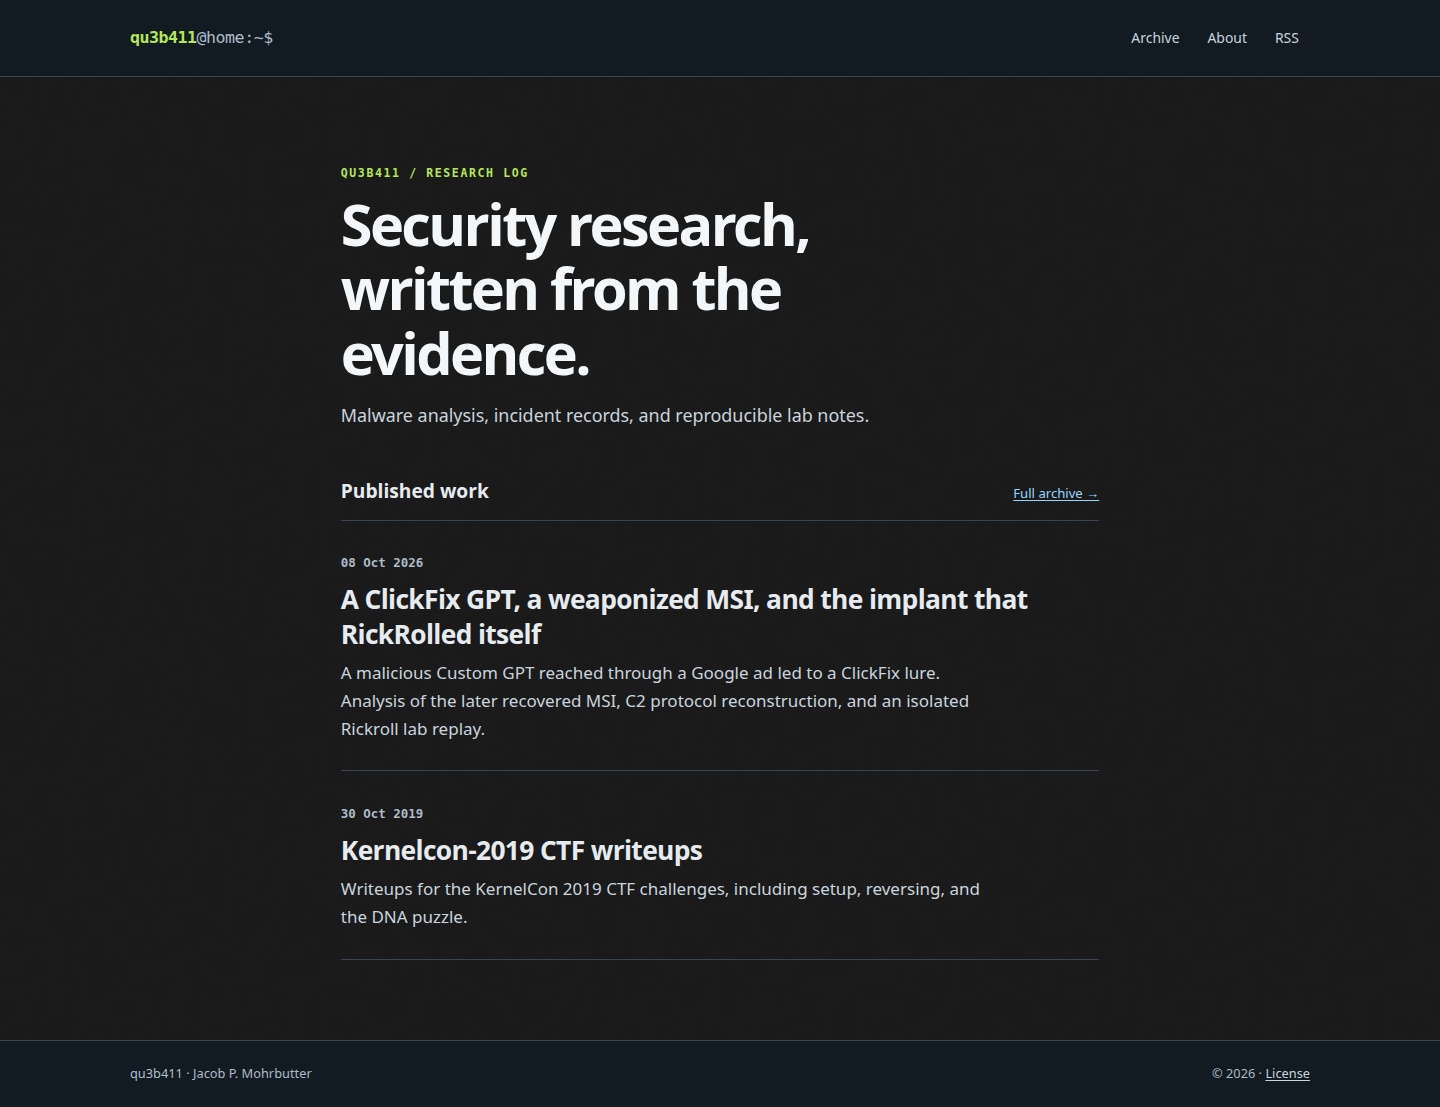
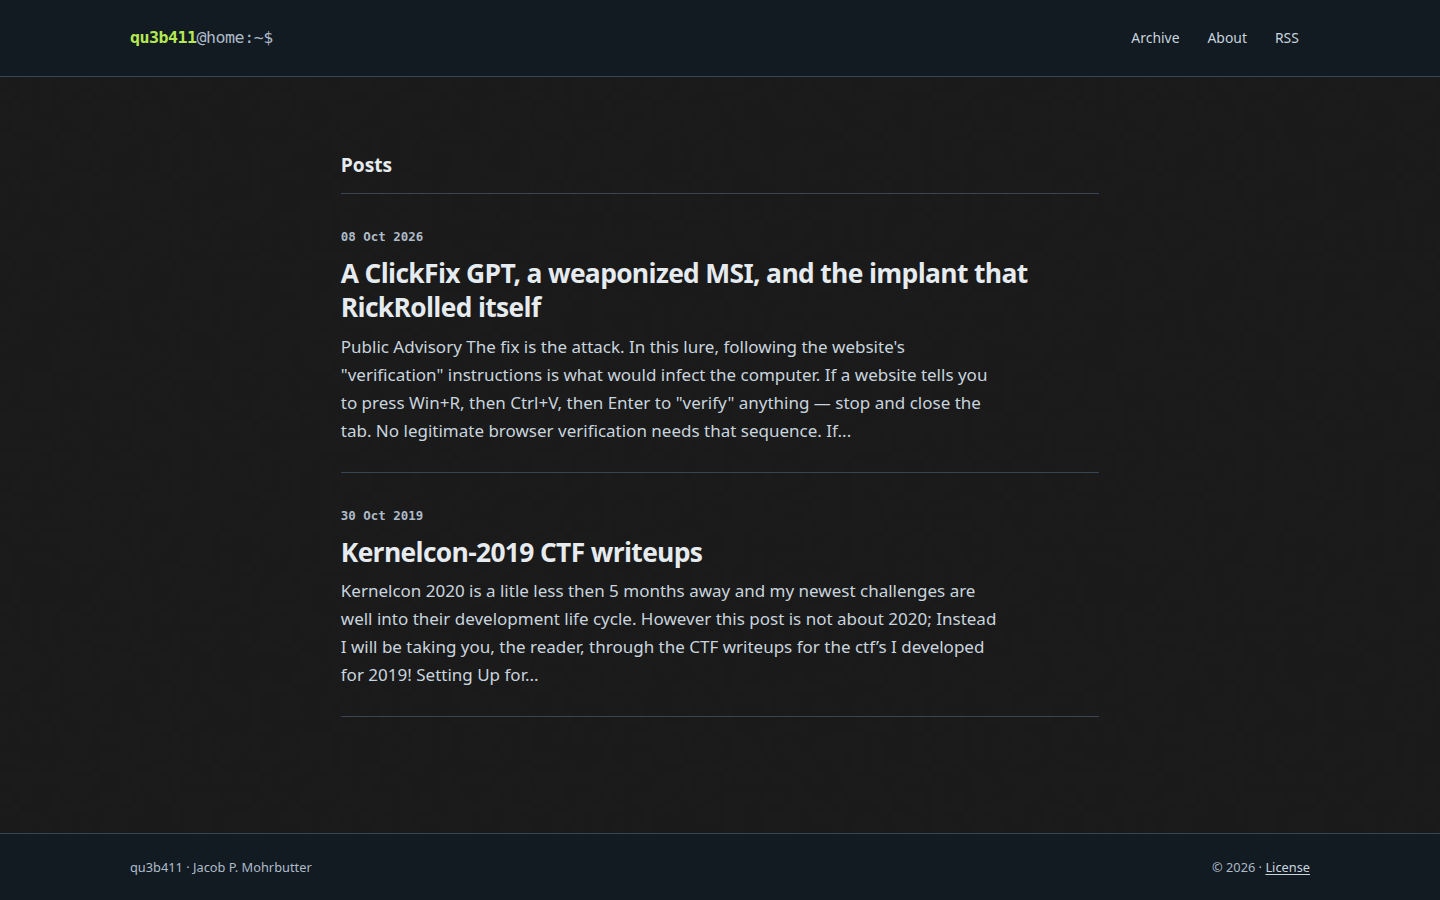
Keep homepage a simple post list

diff --git a/_sass/base.scss b/_sass/base.scss
@@ -106,30 +106,12 @@ a:focus-visible, summary:focus-visible {
   letter-spacing: .14em;
   text-transform: uppercase;
 }
-.home-intro { max-width: 70ch; padding: 1rem 0 2.8rem; }
-.home-intro h1 {
-  max-width: 18ch;
-  margin: 0 0 1rem;
-  color: #f4f7fa;
-  font: 750 clamp(2.2rem, 5vw, 3.6rem)/1.12 system-ui, sans-serif;
-  letter-spacing: -.045em;
-}
-.home-intro > p:last-child { margin: 0; color: var(--soft); font-size: 1.12rem; }
-.section-heading {
-  display: flex;
-  align-items: baseline;
-  justify-content: space-between;
-  gap: 1rem;
-  padding-bottom: .8rem;
-  border-bottom: 1px solid var(--line);
-}
-.section-heading h2 { margin: 0; font-size: 1.2rem; }
-.section-heading a { white-space: nowrap; font-size: .82rem; }
+.post-list__heading { margin: 0; padding-bottom: .8rem; border-bottom: 1px solid var(--line); font-size: 1.2rem; }
 .post-card { padding: 1.65rem 0 1.7rem; border-bottom: 1px solid var(--line); }
 .post-card time, .post-date { color: var(--muted); font: 600 .78rem/1.5 ui-monospace, SFMono-Regular, Consolas, monospace; }
-.post-card h3 { margin: .45rem 0 .5rem; font-size: clamp(1.3rem, 2.4vw, 1.65rem); line-height: 1.3; letter-spacing: -.025em; }
-.post-card h3 a { color: var(--text); text-decoration: none; }
-.post-card h3 a:hover { color: var(--link); text-decoration: underline; }
+.post-card h2 { margin: .45rem 0 .5rem; font-size: clamp(1.3rem, 2.4vw, 1.65rem); line-height: 1.3; letter-spacing: -.025em; }
+.post-card h2 a { color: var(--text); text-decoration: none; }
+.post-card h2 a:hover { color: var(--link); text-decoration: underline; }
 .post-card p { max-width: 68ch; margin: 0; color: var(--soft); }
 .pagination { display: flex; justify-content: space-between; gap: 1rem; padding-top: 2rem; color: var(--muted); font-size: .85rem; }
 
@@ -223,7 +205,6 @@ a:focus-visible, summary:focus-visible {
   .site-footer__inner { width: calc(100% - 2rem); flex-direction: column; gap: .3rem; }
   .prose { font-size: 1rem; }
   .prose pre { font-size: .76rem; }
-  .home-intro { padding-bottom: 2rem; }
 }
 
 /* Shared article shell and section index for all published posts. */

diff --git a/index.html b/index.html
@@ -1,23 +1,15 @@
 ---
 layout: default
-title: "Security research and malware analysis"
-description: "Independent security research, malware analysis, incident records, and reproducible lab notes by qu3b411."
+title: "Research and CTF writeups"
+description: "Security research, malware analysis, and CTF writeups by qu3b411."
 ---
-<section class="home-intro" aria-labelledby="home-title">
-  <p class="eyebrow">qu3b411 / research log</p>
-  <h1 id="home-title">Security research, written from the evidence.</h1>
-  <p>Malware analysis, incident records, and reproducible lab notes.</p>
-</section>
-<section class="post-list" aria-labelledby="latest-heading">
-  <div class="section-heading">
-    <h2 id="latest-heading">Published work</h2>
-    <a href="{{ '/archive/' | relative_url }}">Full archive →</a>
-  </div>
+<section class="post-list" aria-labelledby="posts-heading">
+  <h1 id="posts-heading" class="post-list__heading">Posts</h1>
   {% for post in paginator.posts %}
   <article class="post-card">
     <time datetime="{{ post.date | date_to_xmlschema }}">{{ post.date | date: '%d %b %Y' }}</time>
-    <h3><a href="{{ post.url | relative_url }}">{{ post.title }}</a></h3>
-    <p>{{ post.description | default: post.excerpt | strip_html | truncatewords: 48 }}</p>
+    <h2><a href="{{ post.url | relative_url }}">{{ post.title }}</a></h2>
+    <p>{{ post.content | strip_html | truncatewords: 50 }}</p>
   </article>
   {% endfor %}
 </section>

diff --git a/docs/design-review/AUDIT.md b/docs/design-review/AUDIT.md
@@ -14,7 +14,7 @@ The public build has a homepage, two published articles, Archive, About, and the
 
 ## Standardized
 
-- One dark palette, terminal brand, shared header/navigation/footer, focus treatment, type scale, reading width, link style, code treatment, tables, and image constraints.
+- One dark palette, terminal brand, shared header/navigation/footer, focus treatment, type scale, reading width, link style, code treatment, tables, and image constraints. The homepage keeps its simple post list.
 - Shared `head.html` uses one SEO tag output and one base stylesheet; ClickFix adds only its component stylesheet. Both published articles use the same sidebar and article card. The ClickFix browser title is shorter for search results while its visible article title remains unchanged.
 - Page and post templates share the same shell. About now uses the page template. The sitemap omits utility pages, and the RSS self link matches its published path.
 - Local Gemfile versions match the core Jekyll and configured plugin versions listed for GitHub Pages.
@@ -25,6 +25,6 @@ ClickFix keeps its curated section links, advisory warning, figures, details, vi
 
 ## Validation
 
-A Jekyll build completed with Jekyll 3.10.0 and the configured GitHub Pages plugin versions. Six rendered HTML pages were checked: one title, one description, one canonical URL per page; 125 link and asset references inspected with no missing local target or fragment; and 23 rendered images with no load failures in Chrome. Sitemap and feed XML parsed successfully. Desktop (1440 × 900) and phone (390 × 844) Chrome checks found no page-wide overflow on the homepage, both articles, Archive, About, or 404. Both article sidebars link to existing headings. The long code and table content scroll inside their own containers. Keyboard focus on the skip link has a visible outline.
+A Jekyll build completed with Jekyll 3.10.0 and the configured GitHub Pages plugin versions. Six rendered HTML pages were checked: one title, one description, one canonical URL per page; 124 link and asset references inspected with no missing local target or fragment; and 23 rendered images with no load failures in Chrome. Sitemap and feed XML parsed successfully. Desktop (1440 × 900) and phone (390 × 844) Chrome checks found no page-wide overflow on the homepage, both articles, Archive, About, or 404. Both article sidebars link to existing headings. The long code and table content scroll inside their own containers. Keyboard focus on the skip link has a visible outline.
 
 The HTML validator reported no structural markup errors after excluding its rules for output formatting generated by Jekyll and its SEO plugin. It still reports five missing `scope` attributes on one legacy KernelCon Markdown table header. The table's source and data were left unchanged under the content-preservation requirement.
